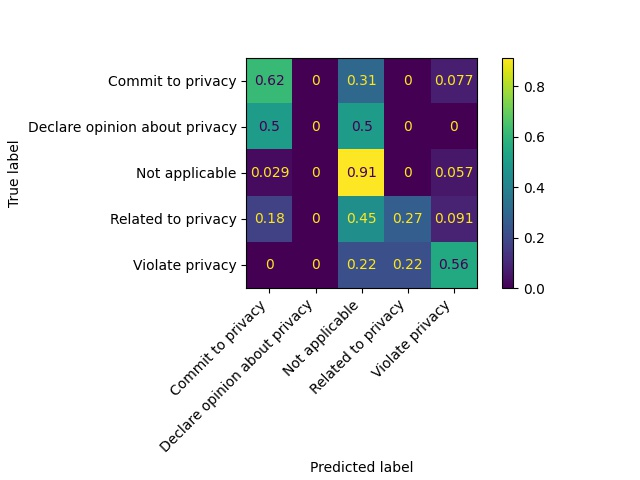
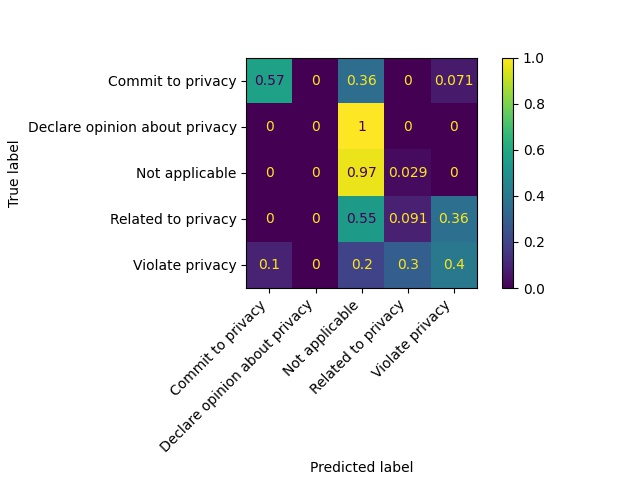
sgd test set  seed 1111111

diff --git a/AIclassifier.py b/AIclassifier.py
@@ -297,8 +297,8 @@ model = sgd_classifier.fit(train_matrix_array, train_labels_primary)
 #    print('Feature:',feature[1],'Score:',feature[0])
 
 # Predicting
-predictions = model.predict(dev_matrix_array)
-#predictions = model.predict(test_matrix_array)
+#predictions = model.predict(dev_matrix_array)
+predictions = model.predict(test_matrix_array)
 
 # casually printing results
 #for sent, pred in zip(sents_train,predictions):
@@ -312,25 +312,25 @@ pred_list = [pred for pred in predictions]
 labels=[1,3,5,4,2]
 path='output/AI Classifier/1Label_confusion_matrix_NormTrue.jpg'
 display_labels=['Commit to privacy', 'Declare opinion about privacy','Not applicable','Related to privacy','Violate privacy']
-create_confusion_matrix(dev_list, pred_list, "true", path, labels, display_labels)
-#create_confusion_matrix(test_list, pred_list, "true", path, labels, display_labels)
+#create_confusion_matrix(dev_list, pred_list, "true", path, labels, display_labels)
+create_confusion_matrix(test_list, pred_list, "true", path, labels, display_labels)
 path='output/AI Classifier/1Label_confusion_matrix_NonNorm.jpg'
-create_confusion_matrix(dev_list, pred_list, None, path, labels, display_labels)
-#create_confusion_matrix(test_list, pred_list, None, path, labels, display_labels)
+#create_confusion_matrix(dev_list, pred_list, None, path, labels, display_labels)
+create_confusion_matrix(test_list, pred_list, None, path, labels, display_labels)
 
 # FLAG - CHECK IF CONFUSION MATRIX IS CORRECT FOR EVERY LABEL
 #path='output/AI Classifier/1labelSGDPredictionsStatsDev.txt'
 #path='output/AI Classifier/1labelRidgePredictionsStatsDev.txt'
-path='output/AI Classifier/1labelPredictionsStatsDev.txt'
-#path='output/AI Classifier/1labelPredictionsStatsTest.txt'
+#path='output/AI Classifier/1labelPredictionsStatsDev.txt'
+path='output/AI Classifier/1labelPredictionsStatsTest.txt'
 os.makedirs(os.path.dirname(path), exist_ok=True)
 with open(path, 'w') as file:
     print("Performance measures - Unigram Dictionary - SGD\n", file=file)
     #print("Performance measures - Mixed Dictionary - Adaboost\n", file=file)
     #print("Performance measures - Bigram Dictionary\n", file=file)
 #write_output_stats_file(path, "Mixed", test_labels_primary, predictions, labels)
-write_output_stats_file(path, "Dev", dev_labels_primary, predictions, labels)
-#write_output_stats_file(path, "Test", test_labels_primary, predictions, labels)
+#write_output_stats_file(path, "Dev", dev_labels_primary, predictions, labels)
+write_output_stats_file(path, "Test", test_labels_primary, predictions, labels)
 
 # TO DO: WRITE PREDICTIONS JSON FILE -> LEARN HOW TO TRANSFORM ADABOOST OUTPUT IN DICT ( LIST OF ({"text":sentence['text'], "label":label}))
 #write_predictions_file("Dev", dev_pred_dict)
